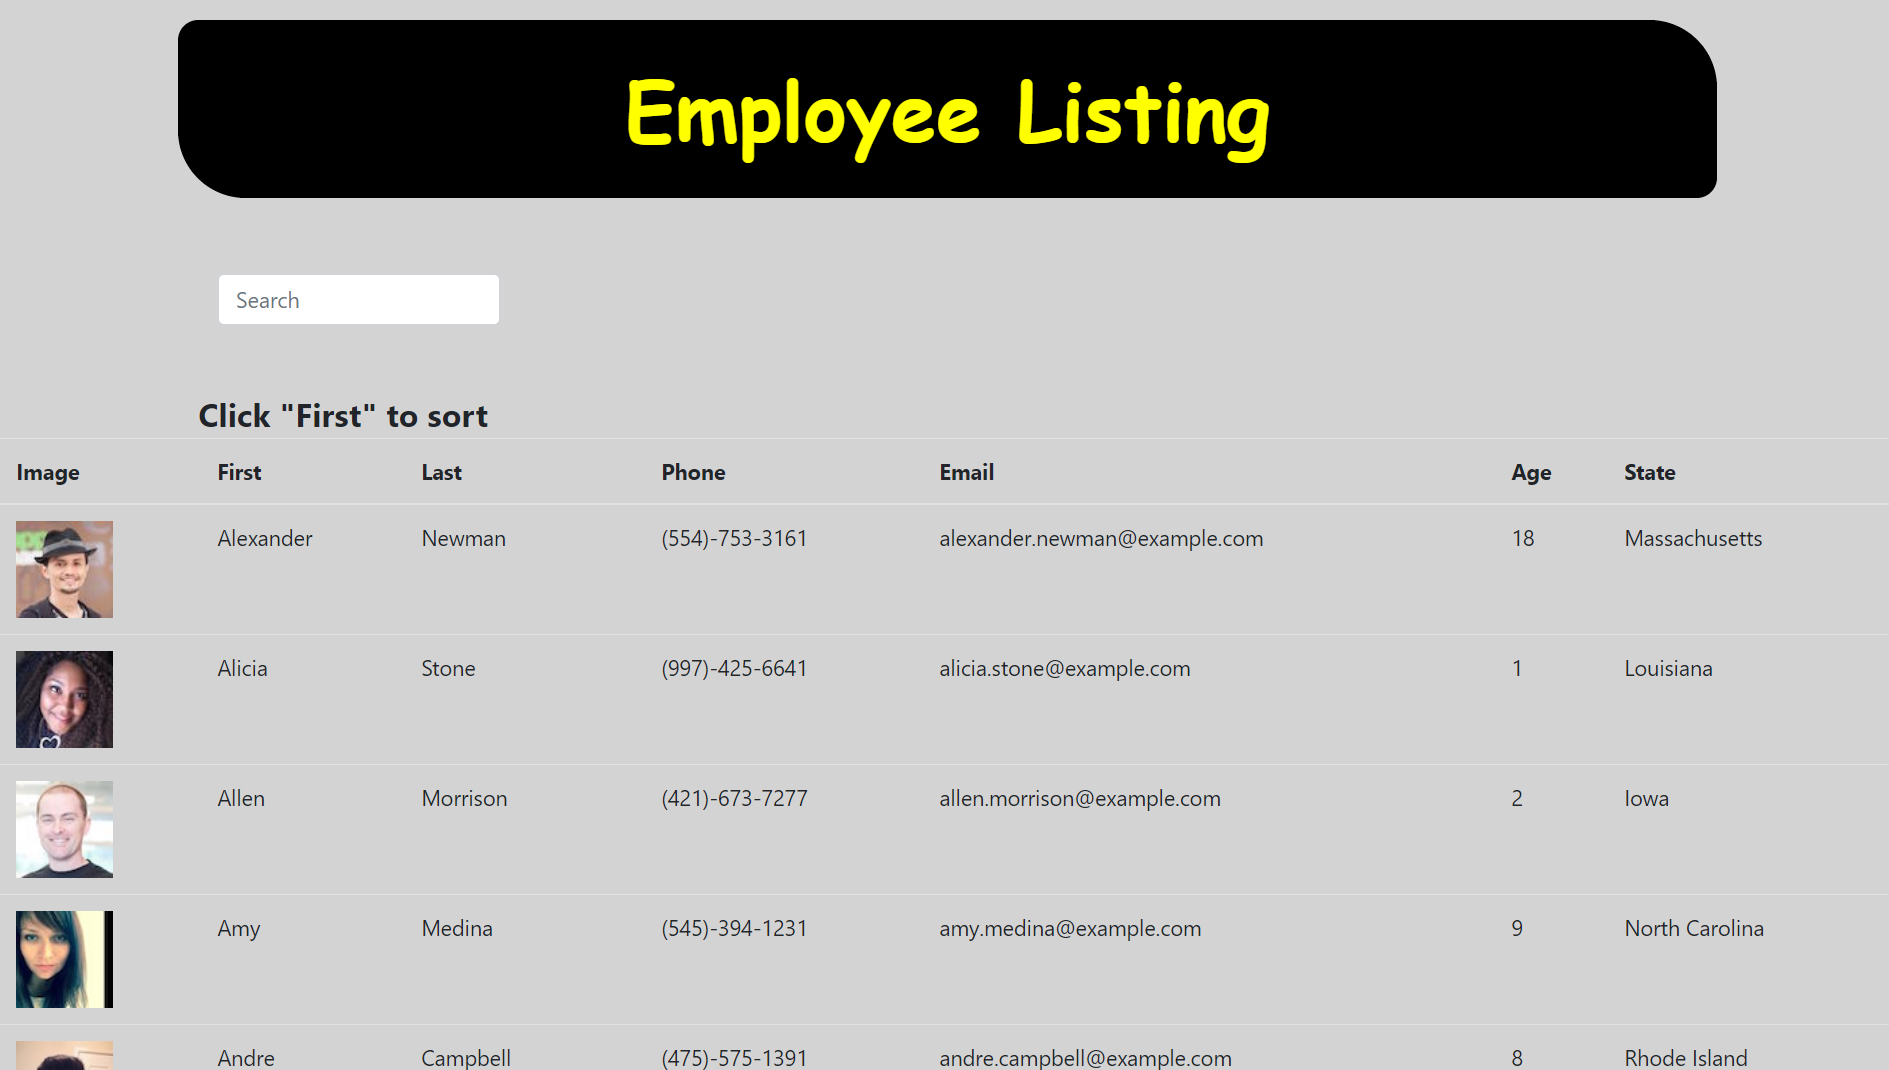
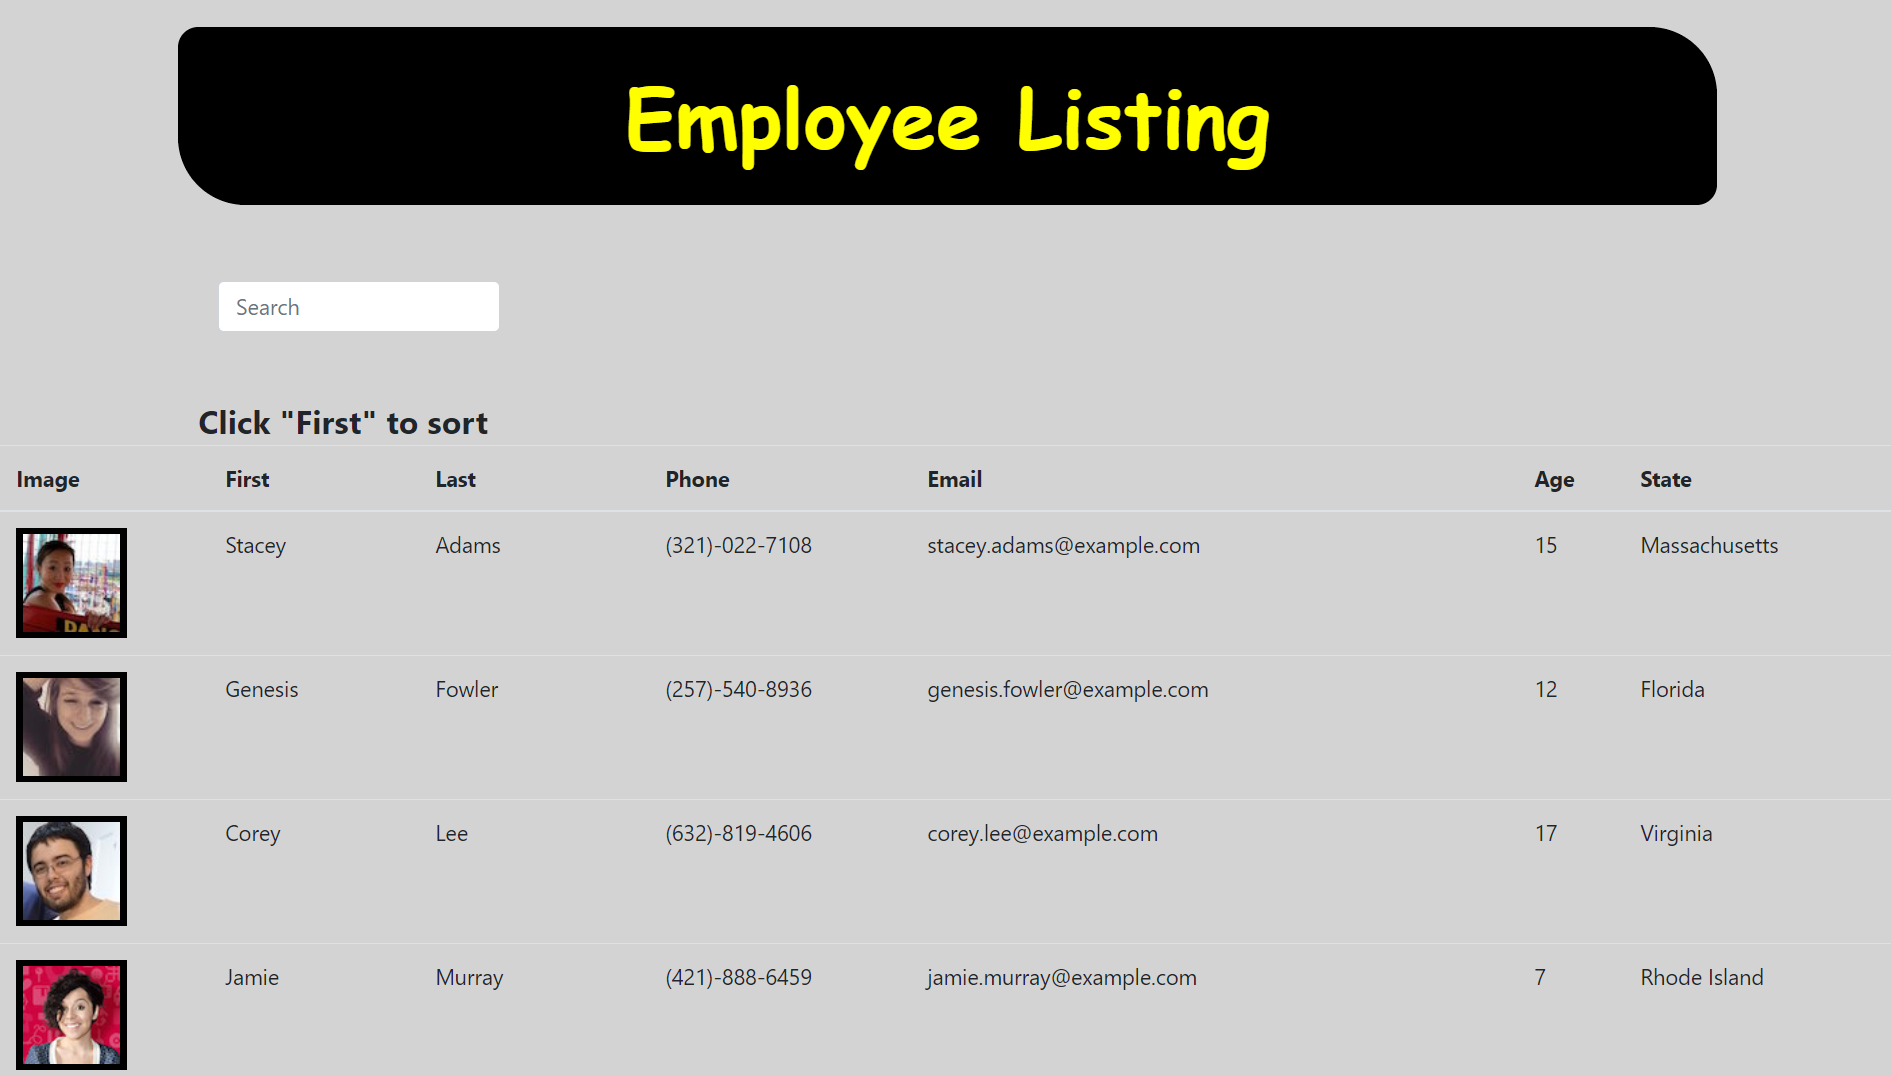
added border to img & updated example img

diff --git a/src/styles/style.css b/src/styles/style.css
@@ -6,3 +6,7 @@ body {
   font-weight: bold;
   font-size: x-large;
 }
+
+img {
+  border: 5px solid black;
+}
